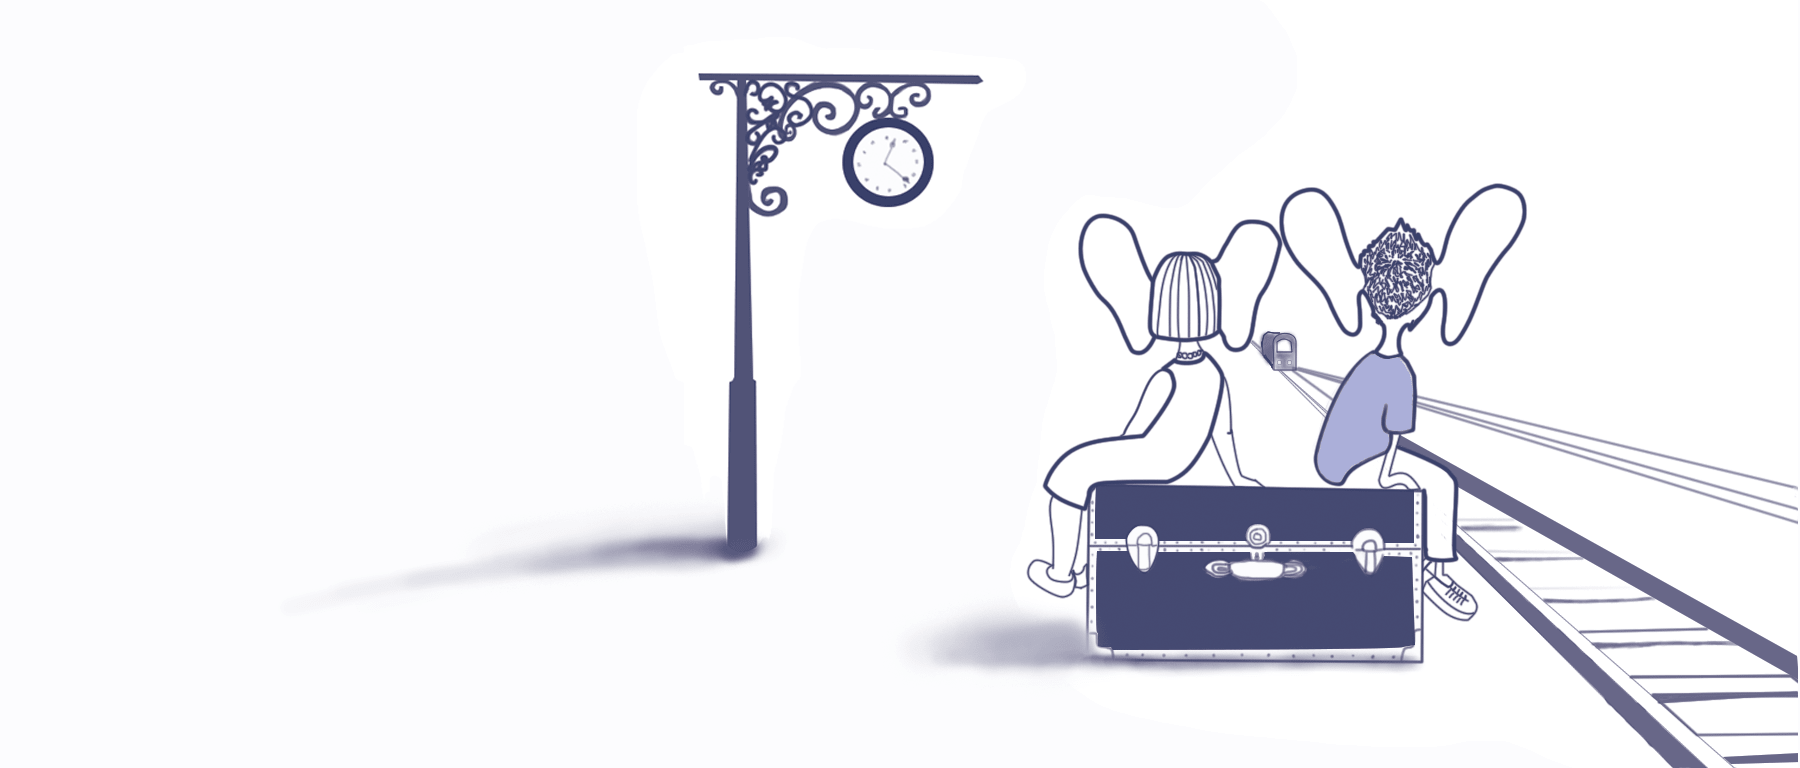
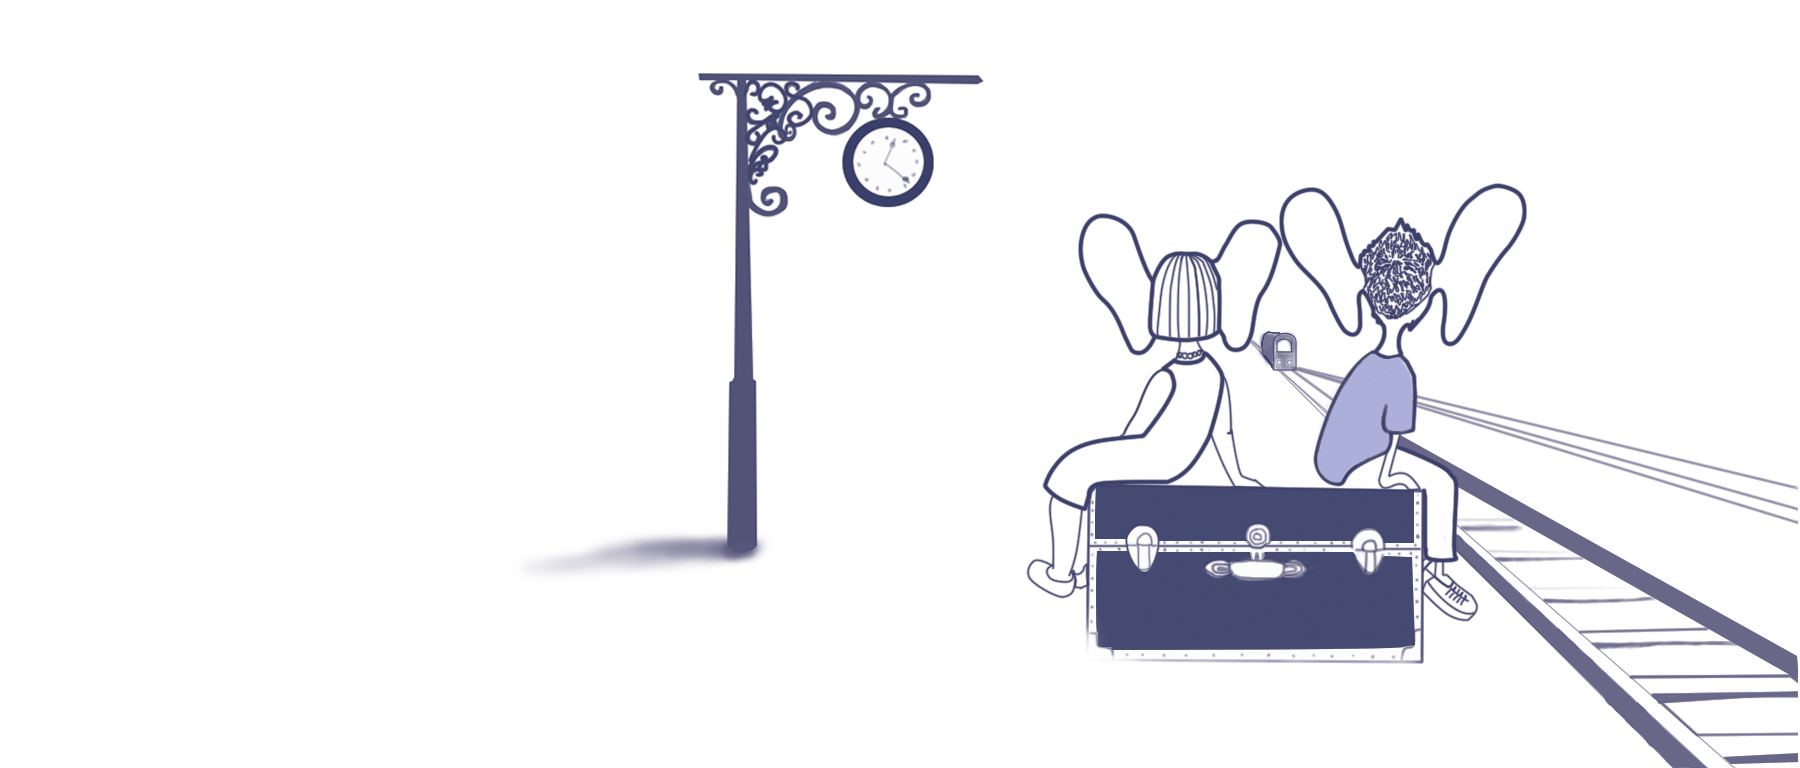
- Update background for waiting page - Fix bug into stream rendered; -  Implemented first version audio playback animation.

Changed region(s): [[0.4978, 0.7812, 0.8089, 0.875], [0.2489, 0.6562, 0.4356, 0.75], [0.2178, 0.75, 0.2489, 0.7812]]

diff --git a/gui/app/core/audio/audiowrapper.modern.ts b/gui/app/core/audio/audiowrapper.modern.ts
@@ -4,25 +4,36 @@
 import {Subject}    from 'rxjs/Subject';
 import {IAudioWrapper} from "./audiowrapper.abstract";
 import {Observable} from "rxjs/Rx";
+import Timer = NodeJS.Timer;
 
 export class FileLoadedMessage {
-    constructor(public ab:AudioBuffer) {
+    constructor(public ab: AudioBuffer) {
     }
 }
 
 export class FileRenderedMessage {
-    constructor(public renderedBuffer:AudioBuffer) {
+    constructor(public renderedBuffer: AudioBuffer) {
     }
 }
 
 export class FileRenderProgressMessage {
-    constructor(public progress:number) {
+    constructor(public progress: number) {
     }
 }
 
 export class FileProcessingErrorMessage {
-    constructor(public error:any) {
+    constructor(public error: any) {
     }
+}
+
+export class FilePlayedMessage {
+    constructor(public currentTime: number) {
+
+    }
+}
+
+export class FilePlayEndedMessage {
+
 }
 
 // AudioWrapper
@@ -52,7 +63,7 @@ export class ModernAudioWrapper implements IAudioWrapper {
     // .ctor
     // ************
 
-    constructor(source:File) {
+    constructor(source: File) {
         this._source = source;
         let fileReader = new FileReader();
 
@@ -64,7 +75,7 @@ export class ModernAudioWrapper implements IAudioWrapper {
     }
 
     //onFileLoaded invokes processing, after file was loaded.
-    private onFileLoaded(event:any):void {
+    private onFileLoaded(event: any): void {
         this.context.decodeAudioData(event.target.result,
             this.onDecodedSuccessfull.bind(this),
             this.onDecodedError.bind(this));
@@ -72,7 +83,7 @@ export class ModernAudioWrapper implements IAudioWrapper {
 
     //onDecodedSuccessfull invokes after file was successfully decoded.
     //Otherwise will be invoked onDecodedError method.
-    private onDecodedSuccessfull(ab:AudioBuffer):void {
+    private onDecodedSuccessfull(ab: AudioBuffer): void {
         // send message, that AudioBuffer was loaded:
         this.fileProcessingSource.next(new FileLoadedMessage(ab));
 
@@ -88,7 +99,7 @@ export class ModernAudioWrapper implements IAudioWrapper {
         this.startListeningProgress(this.offlineContext, ab);
 
         // rendered audio file to offline buffer:
-        this.offlineContext.startRendering().then((renderedBuffer:AudioBuffer)=> {
+        this.offlineContext.startRendering().then((renderedBuffer: AudioBuffer)=> {
             // send message, that audio was rendered to offline buffer (and attach rendered data):
             this.fileProcessingSource.next(new FileRenderedMessage(renderedBuffer));
             this.renderedBuffer = renderedBuffer
@@ -103,11 +114,14 @@ export class ModernAudioWrapper implements IAudioWrapper {
     //
     // Also we got OfflineAudioContext without strong typing, because TS there aren't appropriate type definitions and
     // say that onstatechange, resume and suspend are absent.
-    private startListeningProgress(oac:any, ab:AudioBuffer) {
+    private startListeningProgress(oac: any, ab: AudioBuffer) {
         // listen onstatechange in oder to send current progress sometime:
         oac.onstatechange = (event) => {
             if (oac.state === 'suspended') {
-                oac.suspend(oac.currentTime + 0.1);
+                if (oac.destination >= oac.currentTime + 0.1) {
+                    oac.suspend(oac.currentTime + 0.1);
+                }
+
                 oac.resume();
 
                 //send message with current progress:
@@ -118,12 +132,10 @@ export class ModernAudioWrapper implements IAudioWrapper {
         // Set rendering on pause, then invoke callback 'onstatechange' and will send message with a current
         // rendering progress:
         oac.suspend(0.1);
-
-
     }
 
     //onDecodedError invokes if file decoding was aborted.
-    private onDecodedError(error):void {
+    private onDecodedError(error): void {
         this.fileProcessingSource.next(new FileProcessingErrorMessage(error));
     }
 
@@ -131,15 +143,15 @@ export class ModernAudioWrapper implements IAudioWrapper {
     // Fields
     // ************
 
-    private context:AudioContext;
-    private offlineContext:OfflineAudioContext;
-    private audioBufferSource:AudioBufferSourceNode;
-    private renderedBuffer:AudioBuffer = null;
-    private song:AudioBufferSourceNode;
+    private context: AudioContext;
+    private offlineContext: OfflineAudioContext;
+    private audioBufferSource: AudioBufferSourceNode;
+    private renderedBuffer: AudioBuffer = null;
+    private song: AudioBufferSourceNode;
+    private playedTime: number = 0;
 
-
-    private _source:File;
-    get source():File {
+    private _source: File;
+    get source(): File {
         return this._source;
     }
 
@@ -148,11 +160,22 @@ export class ModernAudioWrapper implements IAudioWrapper {
     // ************
 
     private fileProcessingSource = new Subject<any>();
-    fileProcessing$:Observable<any> = this.fileProcessingSource.asObservable();
+    fileProcessing$: Observable<any> = this.fileProcessingSource.asObservable();
+
+    private handlePlayStateChanged(): void {
+        this.playedTime += 1;
+        this.fileProcessingSource.next(new FilePlayedMessage(this.playedTime));
+    };
+
+    private handlePlayEnded(): void {
+        this.fileProcessingSource.next(new FilePlayEndedMessage());
+    }
 
     // ************
     // Methods
     // ************
+
+    private timer: NodeJS.Timer;
 
     play() {
         if (this.song != null) {
@@ -163,11 +186,21 @@ export class ModernAudioWrapper implements IAudioWrapper {
         this.song.buffer = this.renderedBuffer;
 
         this.song.connect(this.context.destination);
-        this.song.start()
+
+        this.startPlayback();
     }
 
     pause() {
+        clearInterval(this.timer);
         this.song.stop();
         this.song = null;
+    }
+
+    startPlayback() {
+        this.playedTime = 0;
+        this.timer = setInterval(this.handlePlayStateChanged.bind(this), 1000);
+        this.song.onended = ()=> clearInterval(this.timer);
+
+        this.song.start();
     }
 }

diff --git a/gui/app/pages/editors/audio/audio-editor.component.ts b/gui/app/pages/editors/audio/audio-editor.component.ts
@@ -8,9 +8,8 @@ import {IAudioWrapper} from "../../../core/audio/audiowrapper.abstract";
 import {BusyNotificationService} from "../../../services/app/appbusy-notification.service";
 import {
     ModernAudioWrapper, FileRenderedMessage,
-    FileRenderProgressMessage
+    FileRenderProgressMessage, FilePlayedMessage
 } from "../../../core/audio/audiowrapper.modern";
-
 
 
 enum EditorState {
@@ -29,21 +28,21 @@ enum EditorState {
     styleUrls: ['app/pages/editors/audio/audio-editor.component.css']
 })
 export class AudioEditorComponent {
-    private selectedFile:File;
+    private selectedFile: File;
 
     @ViewChild(VisualiserComponent)
-    private visualiser:VisualiserComponent;
+    private visualiser: VisualiserComponent;
 
-    state:EditorState;
+    state: EditorState;
     editorState = EditorState;
-    audio:IAudioWrapper;
-    audioBuffer:AudioBuffer;
+    audio: IAudioWrapper;
+    audioBuffer: AudioBuffer;
 
-    constructor(private busyNotification:BusyNotificationService) {
+    constructor(private busyNotification: BusyNotificationService) {
         this.state = EditorState.Idle;
     }
 
-    onDropedFile(file:File):void {
+    onDropedFile(file: File): void {
         this.busyNotification.appBusySpinnerShow();
 
         this.selectedFile = file;
@@ -56,11 +55,11 @@ export class AudioEditorComponent {
     }
 
     // Up progress status to 5%. It's need only for user like look.
-    private startAudioFileProcessing():void {
+    private startAudioFileProcessing(): void {
         this.busyNotification.prepare();
     }
 
-    private handleAudioProcessingMessage(message:any):void {
+    private handleAudioProcessingMessage(message: any): void {
         if (message instanceof FileRenderedMessage) {
             let renderedMessage = <FileRenderedMessage>message;
             this.onReceivedAudioData(renderedMessage.renderedBuffer);
@@ -74,10 +73,16 @@ export class AudioEditorComponent {
 
             return;
         }
+
+        if (message instanceof FilePlayedMessage) {
+            let playedMessage = <FilePlayedMessage>message;
+            console.log(playedMessage);
+            this.visualiser.CurrentTime = playedMessage.currentTime;
+        }
     }
 
     // Invoke when we received rendered audio data from AudioWrapper
-    private onReceivedAudioData(ab:AudioBuffer):void {
+    private onReceivedAudioData(ab: AudioBuffer): void {
         this.busyNotification.progressComplete();
 
         this.audioBuffer = ab;

diff --git a/gui/app/components/editors/audio/visualiser.component.ts b/gui/app/components/editors/audio/visualiser.component.ts
@@ -35,10 +35,23 @@ export class VisualiserComponent implements OnInit {
         return this._data;
     }
 
+    // When visualization needs to integrate with player, you can bind this property with
+    // currentTime from player instance. Then visualisation will render was played frames in other color.
+    //
+    // currentTime stores time into seconds.
+    private _currentTime: number = 0;
+
+    @Input()
+    public set CurrentTime(value: number) {
+        this._currentTime = value;
+
+        // update
+        this.draw();
+    }
+
     draw() {
         let context = this._holstCtx;
         context.lineWidth = 1;
-        context.strokeStyle = '#6d87ae';
 
         // make Wave
         let wave = new Wave(this.buffer);
@@ -55,12 +68,15 @@ export class VisualiserComponent implements OnInit {
             let topY = zero - (zero / (wave.topBound / frame.top));
             let bottomY = zero + (zero / (wave.bottomBound / frame.bottom));
 
+            // draws frame line:
+            context.beginPath();
+            console.log(i + " <= " + this._currentTime);
+            context.strokeStyle = i <= this._currentTime ? '#0950ac' : '#6d87ae';
             context.moveTo(x, topY);
             context.lineTo(x, bottomY);
+            context.stroke();
 
             x += distance;
         }
-
-        context.stroke();
     }
 }
